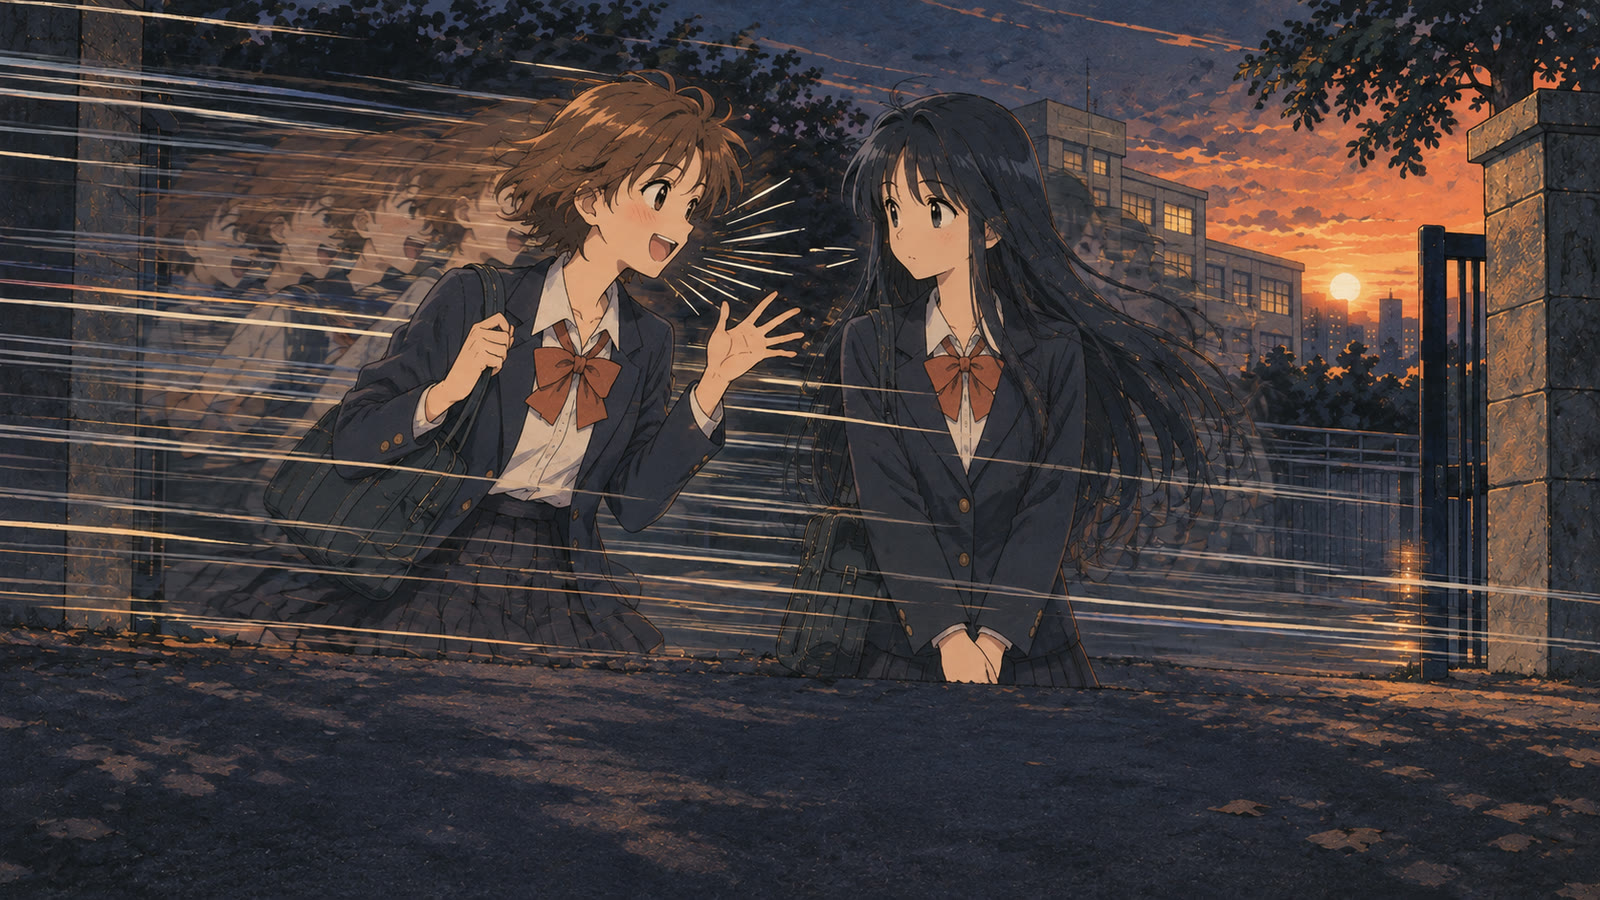
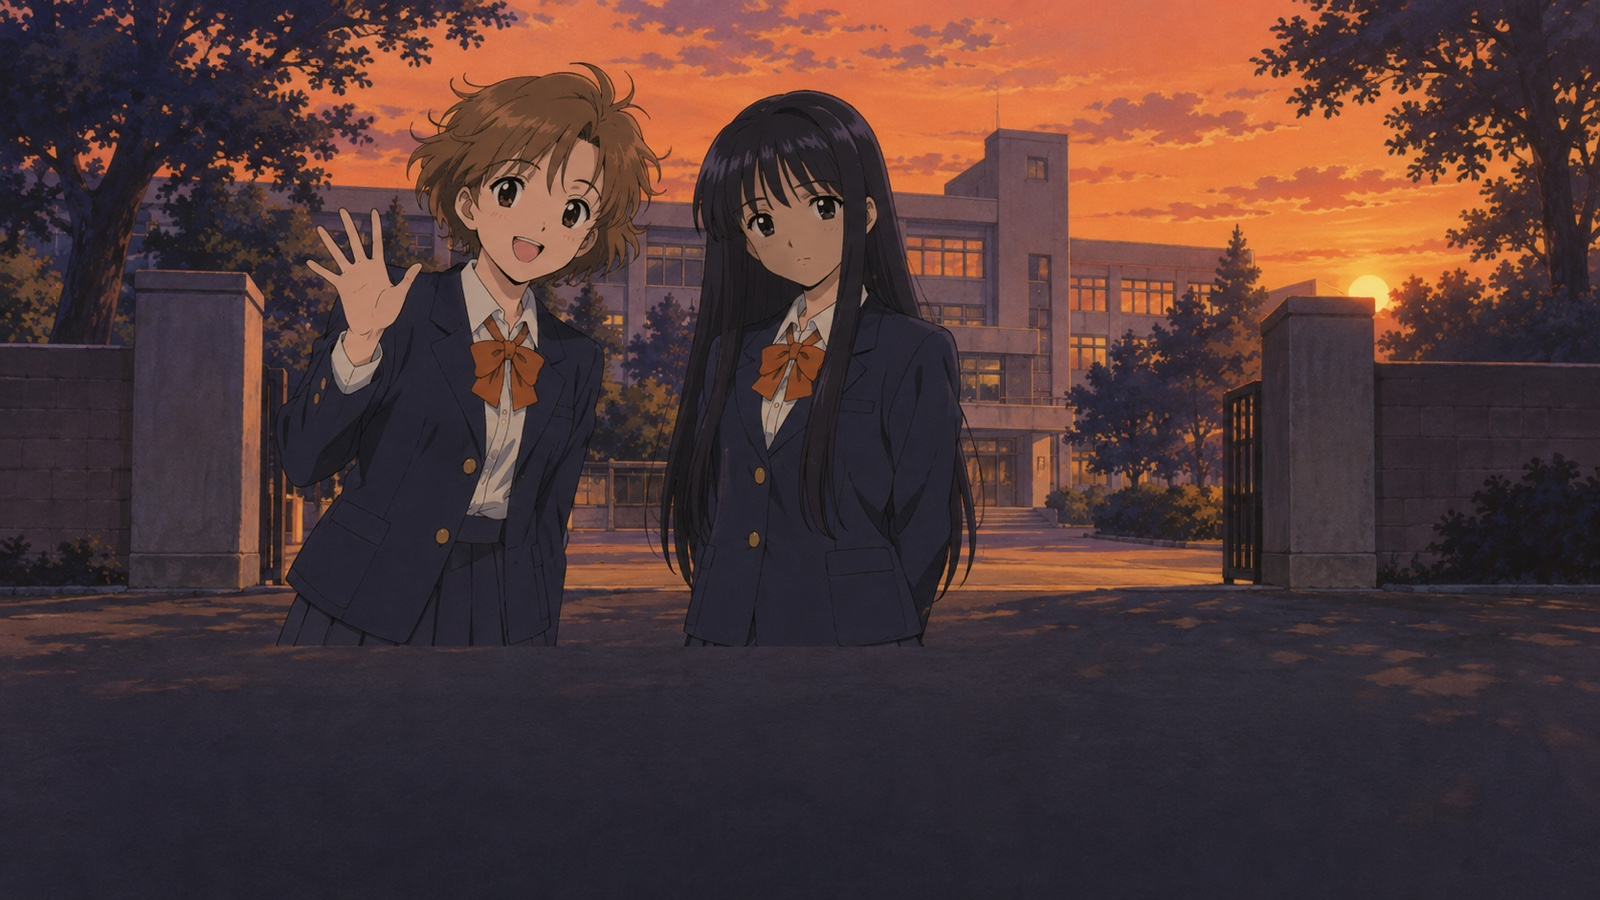
タイトルの一枚絵と結果の画像の背景を流線・残像なしで描き直す
Codex の組み込み画像生成で、同じ構図のまま流線と残像を描かない版を作り、
CREDITS.md のプロンプトの要点を更新して流線の素材の行を消す (#34)。
描き直した結果の画像は紙の上部の枠が低いため、「ENDING」とエンディング名の
Label を枠の中に収まる位置へ上げる。

Claude-Session: https://claude.ai/code/session_016aiDx3bE8oEqeGkqyW3cf3

diff --git a/assets/CREDITS.md b/assets/CREDITS.md
@@ -2,7 +2,7 @@
 
 `assets/` に置く素材の出典とライセンス。素材を追加・差し替えたら同じ変更でここに記録する (`make selfcheck` が、`assets/` の全ファイルがこの表に記録されていることを検証する)。記録の項目は `~/.claude/rules/coding-rules-general-assets-license.md` に従う。
 
-## 生成画像 (立ち絵・背景・タイトルの一枚絵・流線・結果の画像の背景)
+## 生成画像 (立ち絵・背景・タイトルの一枚絵・結果の画像の背景)
 
 下の表の「生成」の素材は、2026-10-09 に Codex CLI 0.156.0 の組み込み画像生成 (imagegen skill。ツール `image_gen.imagegen` の画像生成モデルは `gpt-image-2`。出典: https://github.com/openai/codex/blob/rust-v0.156.0/codex-rs/ext/image-generation/src/tool.rs の `const IMAGE_MODEL: &str = "gpt-image-2";`。生成時の codex のログの `model:` 行の `gpt-6-astra` はツールを呼んだ agent のモデル) で agent が生成した。生成は game-art-reference skill の `generate-reference.sh` で行い、画風は `documents/art-direction/` の承認済みの参考画像 (`play-1.png`・`title-1.png`) を添付して揃えた。プロンプトの共通部分は「1990 年代後半の PC ギャルゲー風のフラットな 2D アニメ調 (手描きの線の揺らぎと塗りむらを残したセル調)」と、使わないもの (ツヤのある 3D レンダ、金属やネオンの質感、磨かれすぎた左右対称の顔、パステル背景に太い輪郭線、写実の照明、読める文字やロゴ)。立ち絵は各ヒロインの `normal` を先に生成し、他の表情は `normal` を添付して同じ人物に揃えた。
 
@@ -22,6 +22,5 @@
 | `portraits/hina_normal.png` / `portraits/hina_smile.png` / `portraits/hina_surprised.png` / `portraits/hina_shy.png` / `portraits/hina_angry.png` / `portraits/hina_sad.png` | 早瀬ヒナの立ち絵 (表情 6 種。シナリオの `expression`) | Codex の画像生成 (gpt-image-2) で agent が生成。プロンプトの要点: 明るい茶色のくせのある短髪、紺のブレザーとオレンジのリボン、腰から上、背景は透過 | OpenAI の利用規約により出力の権利は利用者に帰属 (クレジット表記は不要) | 1086x1448 から高さ 960 に縮小 |
 | `portraits/nagi_normal.png` / `portraits/nagi_smile.png` / `portraits/nagi_surprised.png` / `portraits/nagi_shy.png` / `portraits/nagi_angry.png` / `portraits/nagi_sad.png` | 千早ナギの立ち絵 (表情 6 種) | Codex の画像生成 (gpt-image-2) で agent が生成。プロンプトの要点: 腰まで届く黒のまっすぐな長い髪、紺のブレザーとオレンジのリボン、表情が読みにくい静かな少女、腰から上、背景は透過 | 同上 | 1086x1448 から高さ 960 に縮小 |
 | `backgrounds/room.jpg` / `backgrounds/street.jpg` / `backgrounds/classroom.jpg` / `backgrounds/rooftop.jpg` / `backgrounds/broadcast_room.jpg` / `backgrounds/library.jpg` / `backgrounds/stage.jpg` / `backgrounds/track.jpg` / `backgrounds/beach.jpg` / `backgrounds/shrine.jpg` / `backgrounds/inn_hallway.jpg` / `backgrounds/avenue_night.jpg` / `backgrounds/sakura_tree.jpg` | 会話中の背景 (シナリオの `background`。主人公の部屋・通学路・教室・屋上・放送室・図書室・文化祭の舞台・グラウンド・海・神社・旅館の廊下・駅前の並木道・校舎裏の桜) | Codex の画像生成 (gpt-image-2) で agent が生成。プロンプトの要点: 場面の説明、人物と読める文字を描かない | 同上 | 1672x941 の PNG から 1280x720 に縮小し、ガウスぼかし (sigma 1.5) をかけて JPEG にした (立ち絵を背景から浮かせるため) |
-| `title/title.jpg` | タイトル画面の一枚絵 | Codex の画像生成 (gpt-image-2) で agent が生成。プロンプトの要点: 夕方の校門、手を振るヒナと残像・流線、静かに立つナギ、下 1/3 はタイトルの空き | 同上 | 1672x941 の PNG から 1600x900 に縮小して JPEG にした |
-| `effects/speed_lines.png` | ヒナの立ち絵の後ろに出す流線 | Codex の画像生成 (gpt-image-2) で agent が生成。プロンプトの要点: 左から右へ伸びるオレンジとクリーム色の細い横線、背景は透過 | 同上 | 幅 1280 に縮小 |
-| `result/result_card.jpg` | 共有する結果の画像の背景 (文字は `scenes/result_card.tscn` が上に重ねる) | Codex の画像生成 (gpt-image-2) で agent が生成 (2026-10-09。Codex CLI 0.156.0)。参考画像として承認済みの `result-1.png` と立ち絵の `nagi_smile.png`・`hina_smile.png` を添付した。プロンプトの要点: 深い紺の地に紺の流線、中央に四辺の破れたクリーム色の紙のカード、左の端からオレンジの荒い筆の流線、紙の上部に紺の二重線の空の枠、右下に 2 人の少女の 2 色刷りのスタンプ (ナギは紺・ヒナはオレンジ)、読める文字や時計のアイコンを描かない | 同上 | 1731x909 の PNG から 1200x630 に縮小して JPEG にした |
+| `title/title.jpg` | タイトル画面の一枚絵 | Codex の画像生成 (gpt-image-2) で agent が生成 (2026-10-10 に流線・残像なしで描き直した。Codex CLI 0.156.0)。参考画像として前の版のタイトルの一枚絵と立ち絵の `hina_normal.png`・`nagi_normal.png` を添付した。プロンプトの要点: 夕方の校門、笑顔で手を振るヒナ、静かに立つナギ、2 人は 1 回ずつだけ描く、流線 (横に走る線・スピード線・集中線) と残像を描かない、下 1/3 はタイトルの空き | 同上 | 1672x941 の PNG から 1600x900 に縮小して JPEG にした |
+| `result/result_card.jpg` | 共有する結果の画像の背景 (文字は `scenes/result_card.tscn` が上に重ねる) | Codex の画像生成 (gpt-image-2) で agent が生成 (2026-10-10 に流線なしで描き直した。Codex CLI 0.156.0)。参考画像として前の版の結果の画像の背景と立ち絵の `nagi_smile.png`・`hina_smile.png` を添付した。プロンプトの要点: 無地の深い紺の地、中央に四辺の破れたクリーム色の紙のカード、紙の上部に紺の二重線の空の枠、右下に 2 人の少女の 2 色刷りのスタンプ (ナギは紺・ヒナはオレンジ)、流線 (筆の線・地の横線・動きの線) と残像を描かない、読める文字や時計のアイコンを描かない | 同上 | 1732x908 の PNG から 1200x630 に縮小して JPEG にした |
